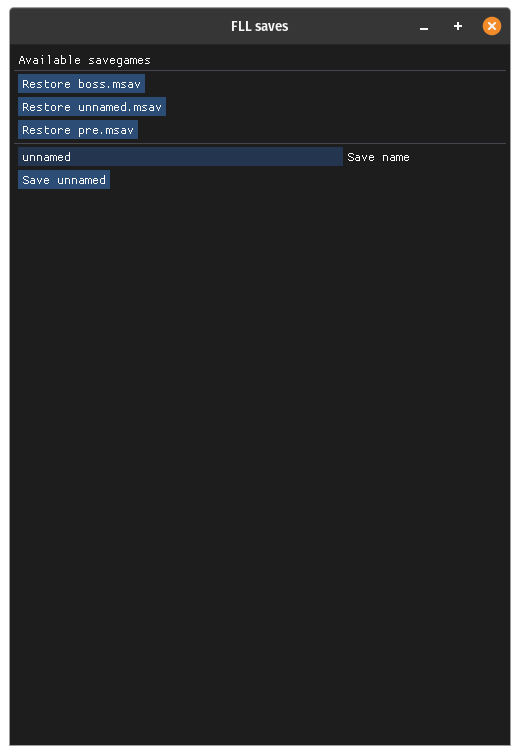
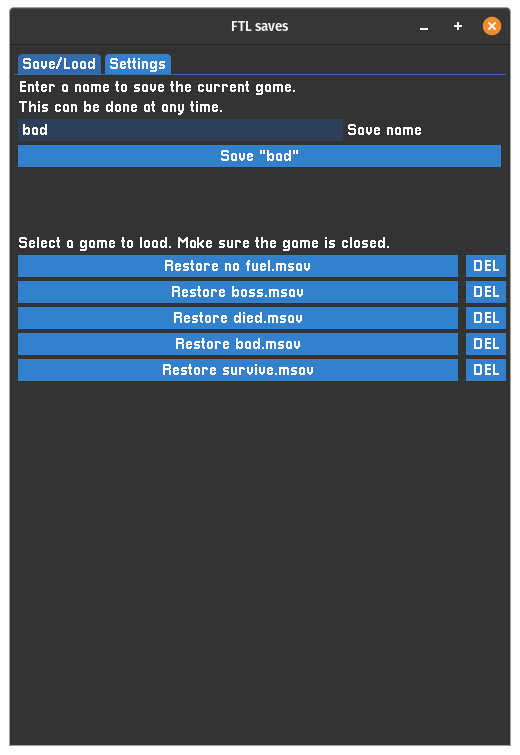
better UI

Changed region(s): [[0.0308, 0.3046, 0.9846, 0.5179], [0.0308, 0.0609, 0.9846, 0.2742]]

diff --git a/src/main.rs b/src/main.rs
@@ -1,5 +1,6 @@
+use imgui::StyleColor::*;
 use imgui::*;
-use std::{fs::copy, path::PathBuf};
+use std::{fs::copy, fs::remove_file, path::PathBuf};
 
 mod support;
 
@@ -11,11 +12,16 @@ fn get_save_directory() -> PathBuf {
     }
     #[cfg(target_os = "windows")]
     {
-        dirs::document_dir().unwrap_or_default().join("My Games").join("FasterThanLight")
+        dirs::document_dir()
+            .unwrap_or_default()
+            .join("My Games")
+            .join("FasterThanLight")
     }
     #[cfg(target_os = "macos")]
     {
-        dirs::config_dir().unwrap_or_default().join("FasterThanLight")
+        dirs::config_dir()
+            .unwrap_or_default()
+            .join("FasterThanLight")
     }
 }
 
@@ -38,61 +44,82 @@ fn backup() {
     let _ = copy(get_save_file(), get_save_directory().join("backup.sav"));
 }
 
-
 fn main() {
     dbg!(get_save_directory());
-    let mut dimensions = (500,700);
-    let mut system = support::init("FLL saves", dimensions);
+    let mut dimensions = (500, 700);
+    let mut system = support::init("FTL saves", dimensions);
 
     let mut savegames = get_available_saves();
     let mut save_name: ImString = im_str!("{}", "unnamed");
 
     system.imgui.style_mut().window_border_size = 0.0;
-    
-    system.main_loop(move |_, ui| {
+    let col_main = [0.2, 0.5, 0.8, 1.0];
+    system.imgui.style_mut().colors[Button as usize] = col_main;
+    system.imgui.style_mut().colors[Tab as usize] = col_main;
+    system.imgui.style_mut().colors[ChildBg as usize] = col_main;
+    system.imgui.style_mut().colors[TabUnfocusedActive as usize] = [0.2, 0.2, 0.2, 1.0];
+    system.imgui.style_mut().colors[WindowBg as usize] = [0.2, 0.2, 0.2, 1.0];
 
+    system.main_loop(move |_, ui| {
         let s = ui.io().display_size;
         dimensions.0 = s[0] as u32;
         dimensions.1 = s[1] as u32;
         Window::new(im_str!("Savegames"))
-        .position([0.0, 0.0], Condition::FirstUseEver)
-        .movable(false)
-        .no_decoration()
-        .size([dimensions.0 as f32, dimensions.1 as f32], Condition::Always)
+            .position([0.0, 0.0], Condition::FirstUseEver)
+            .movable(false)
+            .no_decoration()
+            .size(
+                [dimensions.0 as f32, dimensions.1 as f32],
+                Condition::Always,
+            )
             .build(ui, || {
-                ui.text(im_str!("Available savegames"));
-                ui.separator();
+                TabBar::new(im_str!("basictabbar")).build(&ui, || {
+                    TabItem::new(im_str!("Save/Load")).build(&ui, || {
+                        ui.text(im_str!("Enter a name to save the current game."));
+                        ui.text(im_str!("This can be done at any time."));
 
-                for savegame in &savegames {
+                        ui.input_text(im_str!("Save name"), &mut save_name).build();
 
-                    if ui.button(
-                        &im_str!(
-                            "Restore {}",
-                            savegame.file_name().unwrap_or_default().to_string_lossy()
-                        ),
-                        [0., 0.],
-                    ) {
-                        backup();
-                        let _ = copy(savegame, get_save_file());
-                    }
-                }
+                        if ui.button(&im_str!("Save \"{}\"", save_name), [-1., 0.]) {
+                            match copy(
+                                get_save_file(),
+                                get_save_directory()
+                                    .join(save_name.to_string())
+                                    .with_extension("msav"),
+                            ) {
+                                Ok(_) => savegames = get_available_saves(),
+                                Err(e) => eprintln!("{:?}", e),
+                            }
+                        }
 
-                ui.separator();
+                        ui.dummy([0., 60.]);
+                        ui.text(im_str!(
+                            "Select a game to load. Make sure the game is closed."
+                        ));
 
-                ui.input_text(im_str!("Save name"), &mut save_name).build();
+                        for savegame in &savegames.clone() {
+                            if ui.button(
+                                &im_str!(
+                                    "Restore {}",
+                                    savegame.file_name().unwrap_or_default().to_string_lossy()
+                                ),
+                                [dimensions.0 as f32 - 60., 0.],
+                            ) {
+                                backup();
+                                let _ = copy(savegame, get_save_file());
+                            }
+                            ui.same_line(0.0);
 
-                if ui.button(&im_str!("Save {}", save_name), [0., 0.]) {
-                    match copy(
-                        get_save_file(),
-                        get_save_directory()
-                            .join(save_name.to_string())
-                            .with_extension("msav"),
-                    ) {
-                        Ok(_) => savegames = get_available_saves(),
-                        Err(e) => eprintln!("{:?}", e),
-                    }
-                }
+                            if ui.button(&im_str!("DEL##{:?}", savegame), [40., 0.]) {
+                                let _ = remove_file(savegame).unwrap();
+                                savegames = get_available_saves();
+                            }
+                        }
+                    });
+                    TabItem::new(im_str!("Settings")).build(&ui, || {
+                        ui.text(im_str!("Nothing here yet..."));
+                    });
+                });
             });
-
     });
 }

diff --git a/src/support/mod.rs b/src/support/mod.rs
@@ -42,23 +42,23 @@ pub fn init(title: &str, dim: (u32, u32)) -> System {
     }
 
     let hidpi_factor = platform.hidpi_factor();
-    let font_size = (13.0 * hidpi_factor) as f32;
+    let font_size = (16.0 * hidpi_factor) as f32;
     imgui.fonts().add_font(&[
-        FontSource::DefaultFontData {
-            config: Some(FontConfig {
-                size_pixels: font_size,
-                ..FontConfig::default()
-            }),
-        },
-        // FontSource::TtfData {
-        //     data: include_bytes!("../../../resources/mplus-1p-regular.ttf"),
-        //     size_pixels: font_size,
+        // FontSource::DefaultFontData {
         //     config: Some(FontConfig {
-        //         rasterizer_multiply: 1.75,
-        //         glyph_ranges: FontGlyphRanges::japanese(),
+        //         size_pixels: font_size,
         //         ..FontConfig::default()
         //     }),
         // },
+        FontSource::TtfData {
+            data: include_bytes!("Pixellari.ttf"),
+            size_pixels: font_size,
+            config: Some(FontConfig {
+                //rasterizer_multiply: 1.75,
+                glyph_ranges: FontGlyphRanges::japanese(),
+                ..FontConfig::default()
+            }),
+        },
     ]);
 
     imgui.io_mut().font_global_scale = (1.0 / hidpi_factor) as f32;
